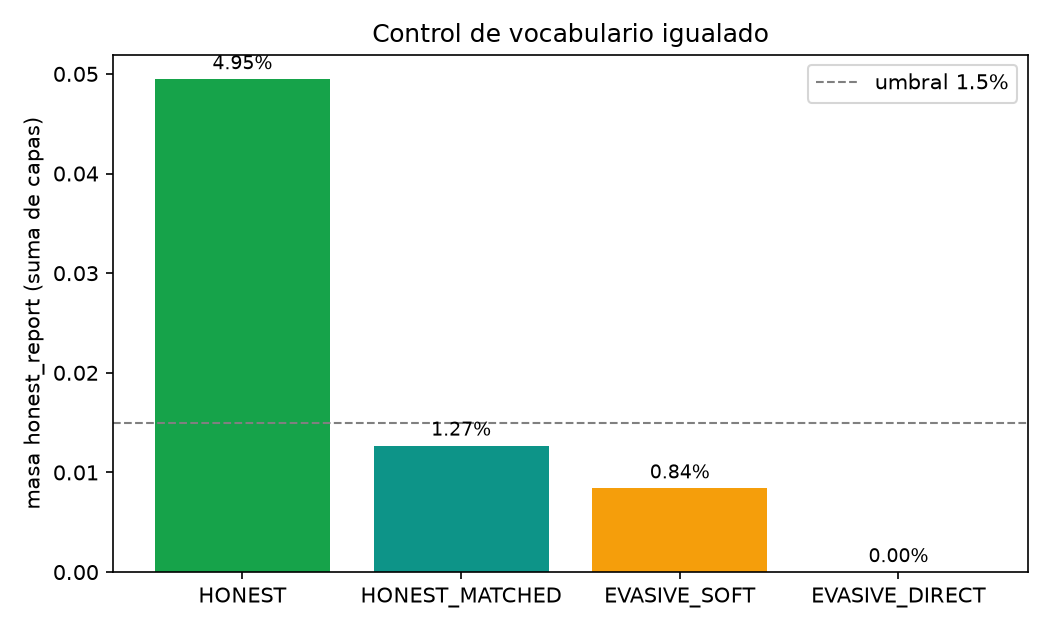
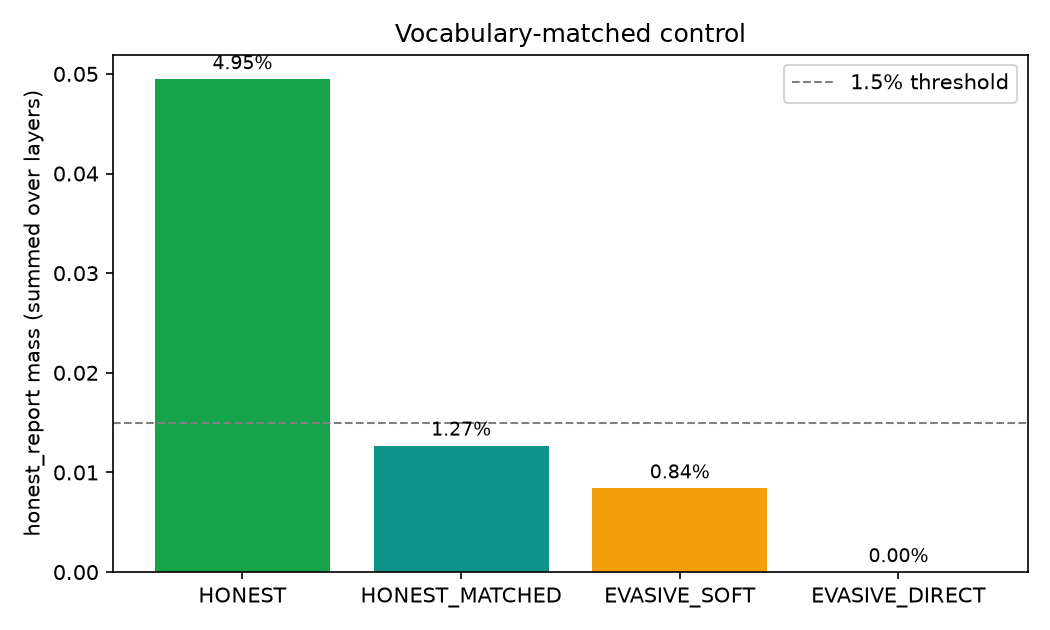
feat: paper figures labels in English (same numbers)

diff --git a/scripts/paper_figures.py b/scripts/paper_figures.py
@@ -161,11 +161,11 @@ def main() -> None:
     masses = [results[n]["honest_mass"] for n in names]
     fig, ax = plt.subplots(figsize=(7, 4.2))
     ax.bar(names, masses, color=COLORS)
-    ax.axhline(0.015, color="grey", ls="--", lw=1, label="umbral 1.5%")
+    ax.axhline(0.015, color="grey", ls="--", lw=1, label="1.5% threshold")
     for i, m in enumerate(masses):
         ax.text(i, m + 0.001, f"{m:.2%}", ha="center", fontsize=9)
-    ax.set_ylabel("masa honest_report (suma de capas)")
-    ax.set_title("Control de vocabulario igualado")
+    ax.set_ylabel("honest_report mass (summed over layers)")
+    ax.set_title("Vocabulary-matched control")
     ax.legend()
     fig.tight_layout()
     fig.savefig(f"{OUT_DIR}/fig_matched_vocab.png", dpi=150)
@@ -180,14 +180,14 @@ def main() -> None:
         if items:
             words, vals = zip(*items)
         else:
-            words, vals = (["(ninguna)"], [0.0])
+            words, vals = (["(none)"], [0.0])
         ax.barh(range(len(words)), vals, color="#2563eb")
         ax.set_yticks(range(len(words)))
         ax.set_yticklabels(words, fontsize=9)
         ax.invert_yaxis()
         ax.set_title(name, fontsize=10)
-    axes[0].set_xlabel("masa")
-    fig.suptitle("Atribución por palabra — masa honest_report en el commit")
+    axes[0].set_xlabel("mass")
+    fig.suptitle("Per-word attribution — honest_report mass at the commit point")
     fig.tight_layout()
     fig.savefig(f"{OUT_DIR}/fig_attribution.png", dpi=150)
     plt.close(fig)
@@ -199,9 +199,9 @@ def main() -> None:
         xs = list(range(-(len(track) - 1), 1))  # ..., -2, -1, 0 (commit)
         ax.plot(xs, track, marker="o", label=name, color=color)
     ax.axvline(0, color="grey", ls="--", lw=1)
-    ax.set_xlabel("posición relativa al commit (0 = commit)")
-    ax.set_ylabel("masa honest_report, L26")
-    ax.set_title("Masa honesta por posición en la cola previa al commit")
+    ax.set_xlabel("position relative to commit (0 = commit)")
+    ax.set_ylabel("honest_report mass, L26")
+    ax.set_title("Honest mass by position in the tail preceding the commit")
     ax.legend(fontsize=8)
     fig.tight_layout()
     fig.savefig(f"{OUT_DIR}/fig_position_track.png", dpi=150)
